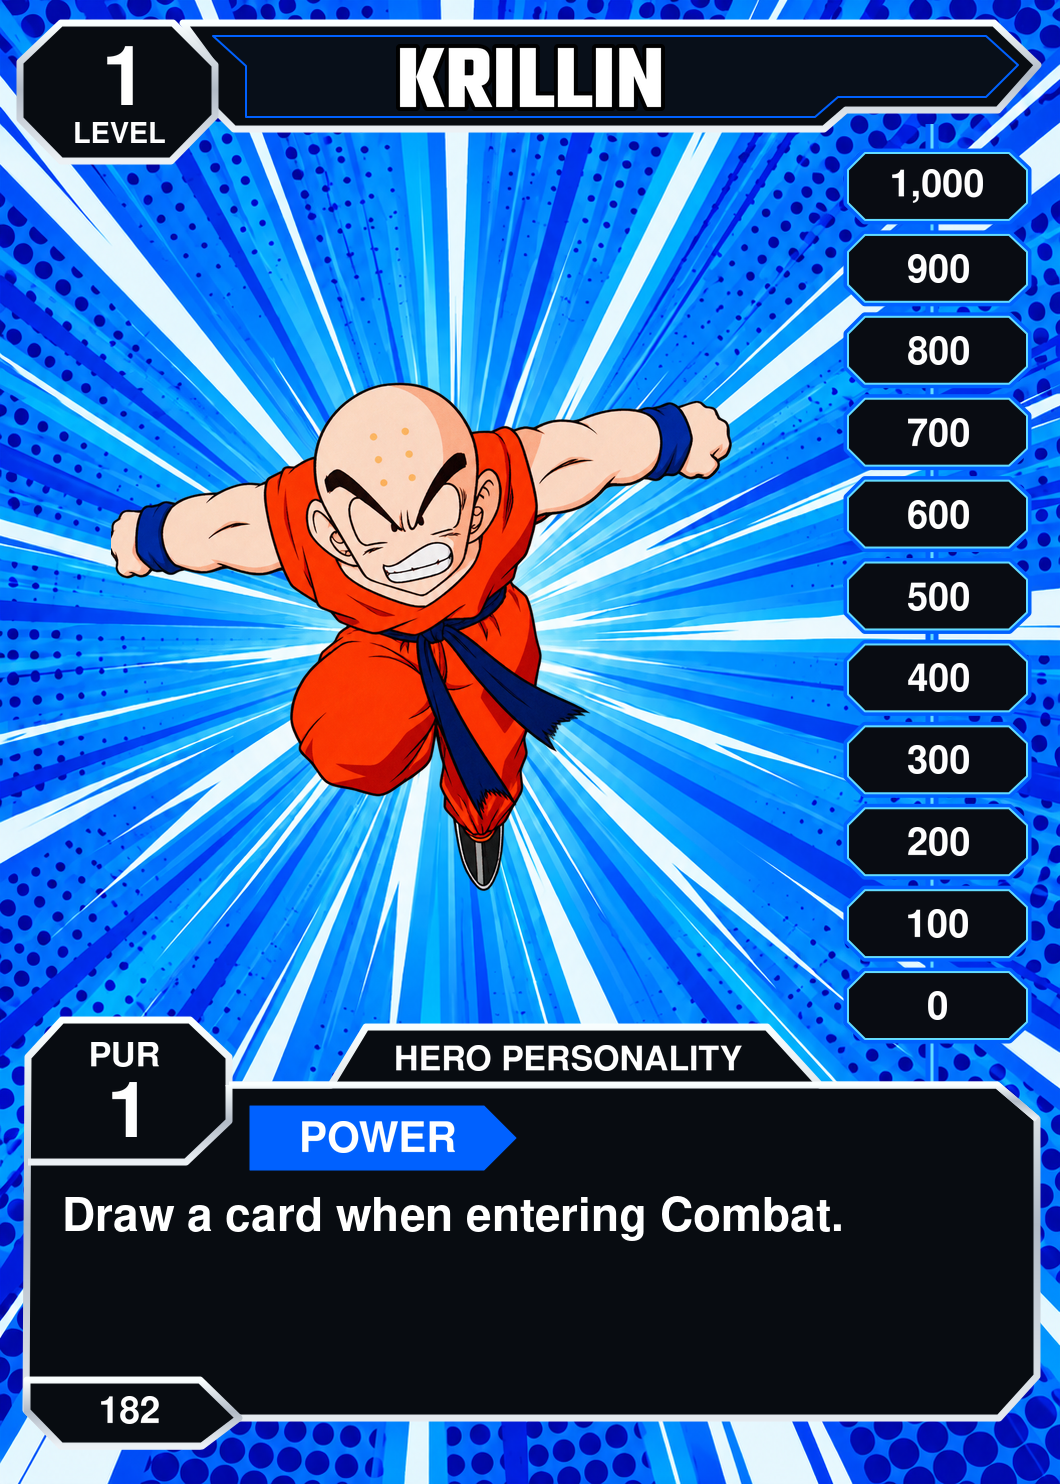
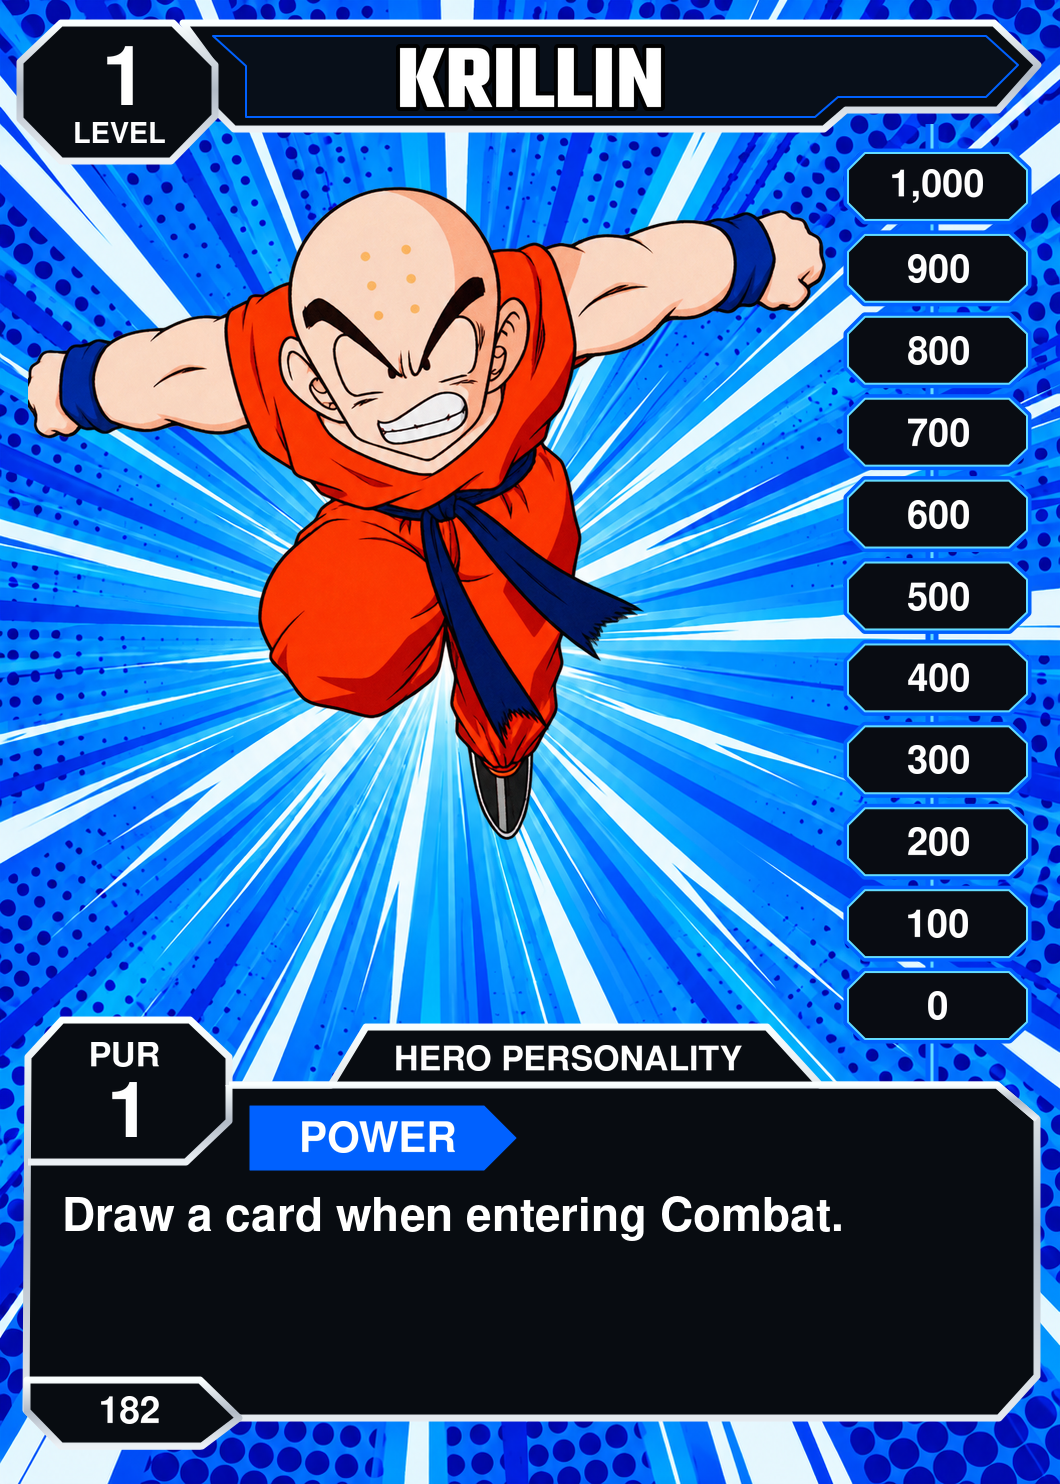
Enlarge and horizontally center personality artwork: batch 4 of 5

Changed region(s): [[0.0, 0.124, 0.7783, 0.6199]]

diff --git a/public/cards/catalog.js b/public/cards/catalog.js
@@ -2308,7 +2308,7 @@ export const catalog = [
     "style": "Freestyle",
     "set": "Saiyan Saga",
     "status": "Ready",
-    "image": "/assets/cards/saiyan-178-nappa.webp?v=eaae8ac0757b",
+    "image": "/assets/cards/saiyan-178-nappa.webp?v=df03130316c8",
     "source": "https://retrodbzccg.com/card-images/saiyan-saga-starter/",
     "width": 1060,
     "height": 1484
@@ -2321,7 +2321,7 @@ export const catalog = [
     "style": "Freestyle",
     "set": "Saiyan Saga",
     "status": "Ready",
-    "image": "/assets/cards/saiyan-179-goku-lvl-1-ht.webp?v=32ed0926efbf",
+    "image": "/assets/cards/saiyan-179-goku-lvl-1-ht.webp?v=fa9790077cec",
     "source": "https://retrodbzccg.com/card-images/saiyan-saga-starter/",
     "width": 1060,
     "height": 1484
@@ -2334,7 +2334,7 @@ export const catalog = [
     "style": "Freestyle",
     "set": "Saiyan Saga",
     "status": "Ready",
-    "image": "/assets/cards/saiyan-180-piccolo-lvl-1-ht.webp?v=7033c4f8707e",
+    "image": "/assets/cards/saiyan-180-piccolo-lvl-1-ht.webp?v=3166071ed374",
     "source": "https://retrodbzccg.com/card-images/saiyan-saga-starter/",
     "width": 1060,
     "height": 1484
@@ -2347,7 +2347,7 @@ export const catalog = [
     "style": "Freestyle",
     "set": "Saiyan Saga",
     "status": "Ready",
-    "image": "/assets/cards/saiyan-181-gohan-lvl-1-ht.webp?v=7ed0f06324fc",
+    "image": "/assets/cards/saiyan-181-gohan-lvl-1-ht.webp?v=83eb1e76034b",
     "source": "https://retrodbzccg.com/card-images/saiyan-saga-starter/",
     "width": 1060,
     "height": 1484
@@ -2360,7 +2360,7 @@ export const catalog = [
     "style": "Freestyle",
     "set": "Saiyan Saga",
     "status": "Ready",
-    "image": "/assets/cards/saiyan-182-krillin-lvl-1-ht.webp?v=17457b2124e4",
+    "image": "/assets/cards/saiyan-182-krillin-lvl-1-ht.webp?v=6084b3264a9f",
     "source": "https://retrodbzccg.com/card-images/saiyan-saga-starter/",
     "width": 1060,
     "height": 1484
@@ -2373,7 +2373,7 @@ export const catalog = [
     "style": "Freestyle",
     "set": "Saiyan Saga",
     "status": "Ready",
-    "image": "/assets/cards/saiyan-183-raditz-lvl-1-ht.webp?v=33bdf10b0476",
+    "image": "/assets/cards/saiyan-183-raditz-lvl-1-ht.webp?v=fd11c1cd3258",
     "source": "https://retrodbzccg.com/card-images/saiyan-saga-starter/",
     "width": 1060,
     "height": 1484
@@ -2386,7 +2386,7 @@ export const catalog = [
     "style": "Freestyle",
     "set": "Saiyan Saga",
     "status": "Ready",
-    "image": "/assets/cards/saiyan-184-vegeta-lvl-1-ht.webp?v=ed9b925abf82",
+    "image": "/assets/cards/saiyan-184-vegeta-lvl-1-ht.webp?v=e76b3531c10f",
     "source": "https://retrodbzccg.com/card-images/saiyan-saga-starter/",
     "width": 1060,
     "height": 1484
@@ -2399,7 +2399,7 @@ export const catalog = [
     "style": "Freestyle",
     "set": "Saiyan Saga",
     "status": "Ready",
-    "image": "/assets/cards/saiyan-185-nappa-lvl-1-ht.webp?v=f0ee04bc4983",
+    "image": "/assets/cards/saiyan-185-nappa-lvl-1-ht.webp?v=c544748f911d",
     "source": "https://retrodbzccg.com/card-images/saiyan-saga-starter/",
     "width": 1060,
     "height": 1484
@@ -3129,7 +3129,7 @@ export const catalog = [
     "style": "Freestyle",
     "set": "Saiyan Saga",
     "status": "Ready",
-    "image": "/assets/cards/saiyan-243-saibaimen.webp?v=e29e14ec8740",
+    "image": "/assets/cards/saiyan-243-saibaimen.webp?v=2bb97313ebdb",
     "source": "https://retrodbzccg.com/card-images/saiyan-saga-rares/",
     "width": 1060,
     "height": 1484
@@ -3142,7 +3142,7 @@ export const catalog = [
     "style": "Freestyle",
     "set": "Saiyan Saga",
     "status": "Ready",
-    "image": "/assets/cards/saiyan-244-saibaimen.webp?v=c3da4b79bd9d",
+    "image": "/assets/cards/saiyan-244-saibaimen.webp?v=56bb83acefe9",
     "source": "https://retrodbzccg.com/card-images/saiyan-saga-rares/",
     "width": 1060,
     "height": 1484
